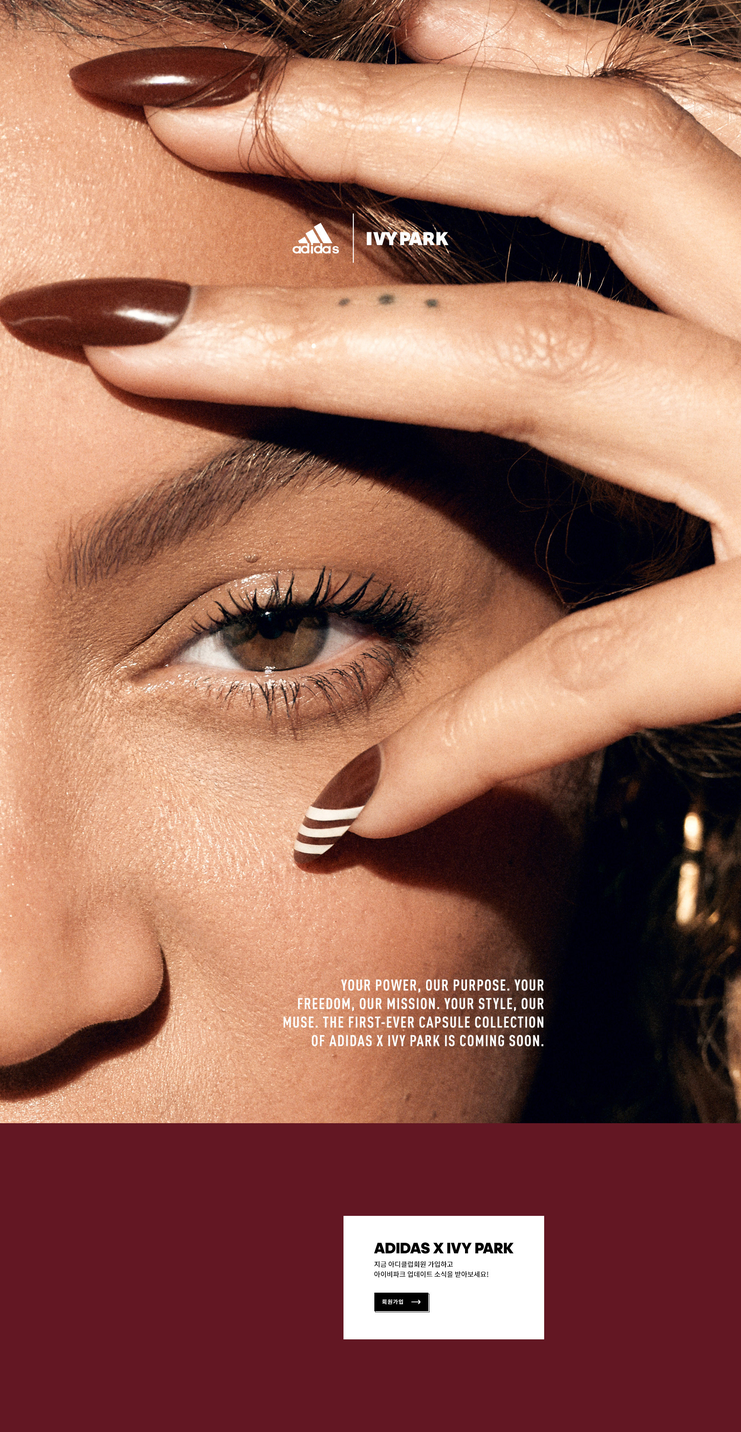
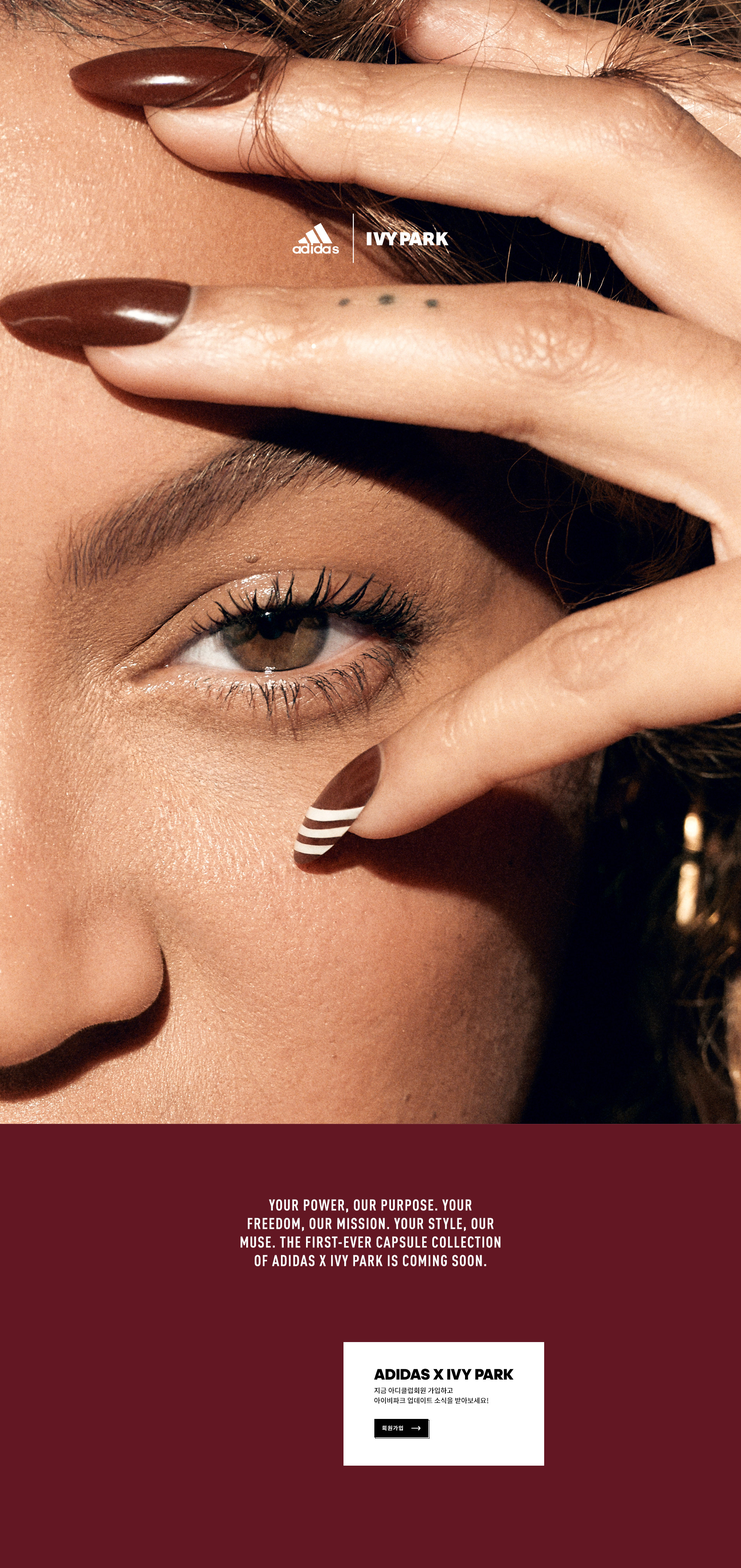
adi_cp_아이비파크 파이널

diff --git a/front/html/adidas/2020/event/ivypark/build/index.html b/front/html/adidas/2020/event/ivypark/build/index.html
@@ -1005,7 +1005,7 @@
 		<!-- header HTML -->
 
 		<div id="container_r" class="campaign-content">
-<style type="text/css">.pseudo-element{content:'';display:block}#wrap{min-width:1190px;overflow:hidden}#ivypark{position:relative}#ivypark .button_area_v2:hover div .bg{box-shadow:inset 0 0 0 1px #000;-webkit-box-shadow:inset 0 0 0 1px #000;transition:all 0.5s;-webkit-transition:all 0.5s;-moz-transition:all 0.5s;-o-transition:all 0.5s;-ms-transition:all 0.5s}#ivypark .button_area_v2:hover div a{color:#fff;background:#000;transition:all 0.5s;-webkit-transition:all 0.5s;-moz-transition:all 0.5s;-o-transition:all 0.5s;-ms-transition:all 0.5s}#ivypark .button_area_v2:hover div a span{background:#fff;transition:all 0.5s;-webkit-transition:all 0.5s;-moz-transition:all 0.5s;-o-transition:all 0.5s;-ms-transition:all 0.5s}#ivypark .button_area_v2:hover div a span em{background:#fff;transition:all 0.5s;-webkit-transition:all 0.5s;-moz-transition:all 0.5s;-o-transition:all 0.5s;-ms-transition:all 0.5s}#ivypark .button_area_v2 a{letter-spacing:1px}#ivypark .main{position:relative;height:3710px}#ivypark .main.on .inn>*::before{height:0}#ivypark .main>.bg{position:absolute;top:0;left:50%;margin-left:-960px}
+<style type="text/css">.pseudo-element{content:'';display:block}#wrap{min-width:1190px;overflow:hidden}#ivypark{position:relative}#ivypark .button_area_v2:hover div .bg{box-shadow:inset 0 0 0 1px #000;-webkit-box-shadow:inset 0 0 0 1px #000;transition:all 0.5s;-webkit-transition:all 0.5s;-moz-transition:all 0.5s;-o-transition:all 0.5s;-ms-transition:all 0.5s}#ivypark .button_area_v2:hover div a{color:#fff;background:#000;transition:all 0.5s;-webkit-transition:all 0.5s;-moz-transition:all 0.5s;-o-transition:all 0.5s;-ms-transition:all 0.5s}#ivypark .button_area_v2:hover div a span{background:#fff;transition:all 0.5s;-webkit-transition:all 0.5s;-moz-transition:all 0.5s;-o-transition:all 0.5s;-ms-transition:all 0.5s}#ivypark .button_area_v2:hover div a span em{background:#fff;transition:all 0.5s;-webkit-transition:all 0.5s;-moz-transition:all 0.5s;-o-transition:all 0.5s;-ms-transition:all 0.5s}#ivypark .button_area_v2 a{letter-spacing:1px}#ivypark .main{position:relative;height:4060px}#ivypark .main.on .inn>*::before{height:0}#ivypark .main>.bg{position:absolute;top:0;left:50%;margin-left:-960px}
 </style>
 
 			<div id="ivypark">
@@ -1014,7 +1014,7 @@
 					<div class="bg">
 						<img src="/images/adidas/2020/event/ivypark/2001_a_IVYPARK_DT.jpg" usemap="#map1" alt="">
 						<map name="map1" id="map1">
-							<area shape="rect" coords="969,3347,1117,3403" href="https://shop.adidas.co.kr/PF0601001.action" alt="회원가입" campaign-label="회원가입" onfocus="blur();">
+							<area shape="rect" coords="969,3670,1115,3728" href="https://shop.adidas.co.kr/PF0601001.action" alt="회원가입" campaign-label="회원가입" onfocus="blur();">
 						</map>
 					</div>
 				</div>

diff --git a/front/html/adidas/html/pn/ivypark.html b/front/html/adidas/html/pn/ivypark.html
@@ -1,5 +1,5 @@
 <div id="container_r" class="campaign-content">
-<style type="text/css">.pseudo-element{content:'';display:block}#wrap{min-width:1190px;overflow:hidden}#ivypark{position:relative}#ivypark .button_area_v2:hover div .bg{box-shadow:inset 0 0 0 1px #000;-webkit-box-shadow:inset 0 0 0 1px #000;transition:all 0.5s;-webkit-transition:all 0.5s;-moz-transition:all 0.5s;-o-transition:all 0.5s;-ms-transition:all 0.5s}#ivypark .button_area_v2:hover div a{color:#fff;background:#000;transition:all 0.5s;-webkit-transition:all 0.5s;-moz-transition:all 0.5s;-o-transition:all 0.5s;-ms-transition:all 0.5s}#ivypark .button_area_v2:hover div a span{background:#fff;transition:all 0.5s;-webkit-transition:all 0.5s;-moz-transition:all 0.5s;-o-transition:all 0.5s;-ms-transition:all 0.5s}#ivypark .button_area_v2:hover div a span em{background:#fff;transition:all 0.5s;-webkit-transition:all 0.5s;-moz-transition:all 0.5s;-o-transition:all 0.5s;-ms-transition:all 0.5s}#ivypark .button_area_v2 a{letter-spacing:1px}#ivypark .main{position:relative;height:3710px}#ivypark .main.on .inn>*::before{height:0}#ivypark .main>.bg{position:absolute;top:0;left:50%;margin-left:-960px}
+<style type="text/css">.pseudo-element{content:'';display:block}#wrap{min-width:1190px;overflow:hidden}#ivypark{position:relative}#ivypark .button_area_v2:hover div .bg{box-shadow:inset 0 0 0 1px #000;-webkit-box-shadow:inset 0 0 0 1px #000;transition:all 0.5s;-webkit-transition:all 0.5s;-moz-transition:all 0.5s;-o-transition:all 0.5s;-ms-transition:all 0.5s}#ivypark .button_area_v2:hover div a{color:#fff;background:#000;transition:all 0.5s;-webkit-transition:all 0.5s;-moz-transition:all 0.5s;-o-transition:all 0.5s;-ms-transition:all 0.5s}#ivypark .button_area_v2:hover div a span{background:#fff;transition:all 0.5s;-webkit-transition:all 0.5s;-moz-transition:all 0.5s;-o-transition:all 0.5s;-ms-transition:all 0.5s}#ivypark .button_area_v2:hover div a span em{background:#fff;transition:all 0.5s;-webkit-transition:all 0.5s;-moz-transition:all 0.5s;-o-transition:all 0.5s;-ms-transition:all 0.5s}#ivypark .button_area_v2 a{letter-spacing:1px}#ivypark .main{position:relative;height:4060px}#ivypark .main.on .inn>*::before{height:0}#ivypark .main>.bg{position:absolute;top:0;left:50%;margin-left:-960px}
 </style>
 
 			<div id="ivypark">
@@ -8,7 +8,7 @@
 					<div class="bg">
 						<img src="/images/adidas/2020/event/ivypark/2001_a_IVYPARK_DT.jpg" usemap="#map1" alt="">
 						<map name="map1" id="map1">
-							<area shape="rect" coords="969,3347,1117,3403" href="https://shop.adidas.co.kr/PF0601001.action" alt="회원가입" campaign-label="회원가입" onfocus="blur();">
+							<area shape="rect" coords="969,3670,1115,3728" href="https://shop.adidas.co.kr/PF0601001.action" alt="회원가입" campaign-label="회원가입" onfocus="blur();">
 						</map>
 					</div>
 				</div>

diff --git a/front/html/adidas/2020/event/ivypark/index.html b/front/html/adidas/2020/event/ivypark/index.html
@@ -1012,7 +1012,7 @@
 					<div class="bg">
 						<img src="/images/adidas/2020/event/ivypark/2001_a_IVYPARK_DT.jpg" usemap="#map1" alt="">
 						<map name="map1" id="map1">
-							<area shape="rect" coords="969,3347,1117,3403" href="https://shop.adidas.co.kr/PF0601001.action" alt="회원가입" campaign-label="회원가입" onfocus="blur();">
+							<area shape="rect" coords="969,3670,1115,3728" href="https://shop.adidas.co.kr/PF0601001.action" alt="회원가입" campaign-label="회원가입" onfocus="blur();">
 						</map>
 					</div>
 				</div>

diff --git a/front/html/adidas/2020/event/ivypark/index.scss b/front/html/adidas/2020/event/ivypark/index.scss
@@ -39,7 +39,7 @@
 
 	.main{
 		position: relative;
-		height: 3710px;
+		height: 4060px;
 		&.on{
 			.inn{
 				>*{
